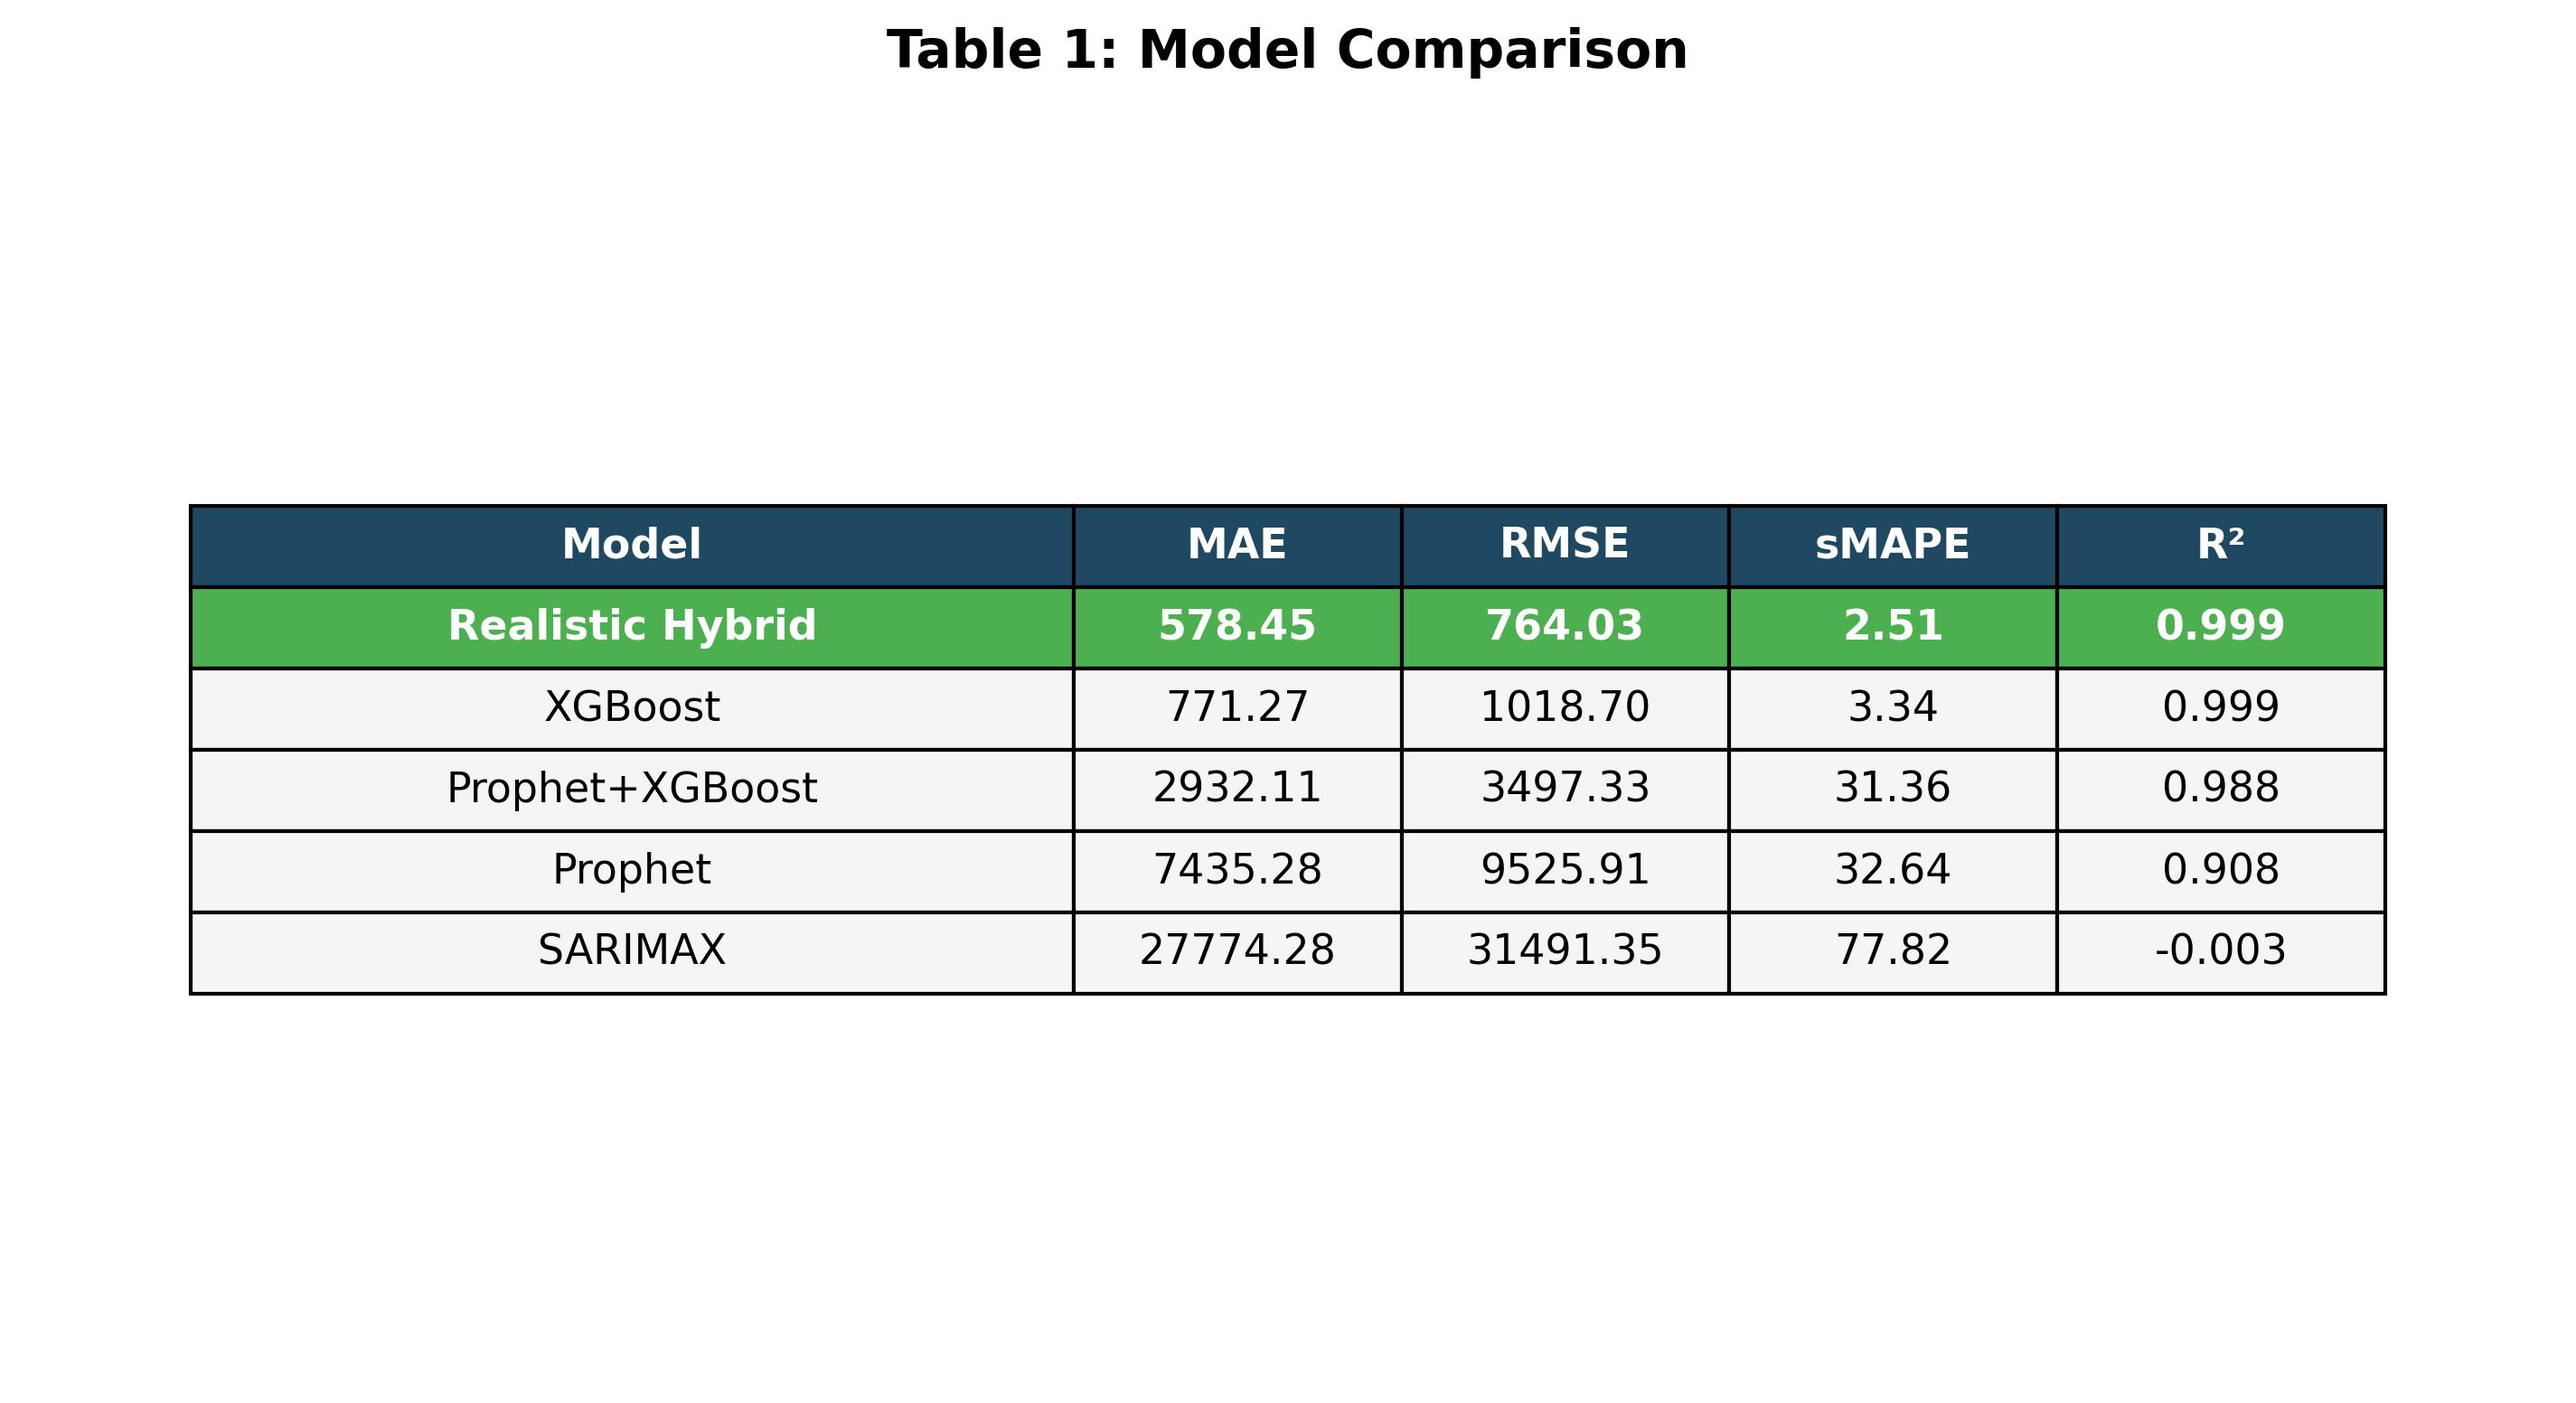
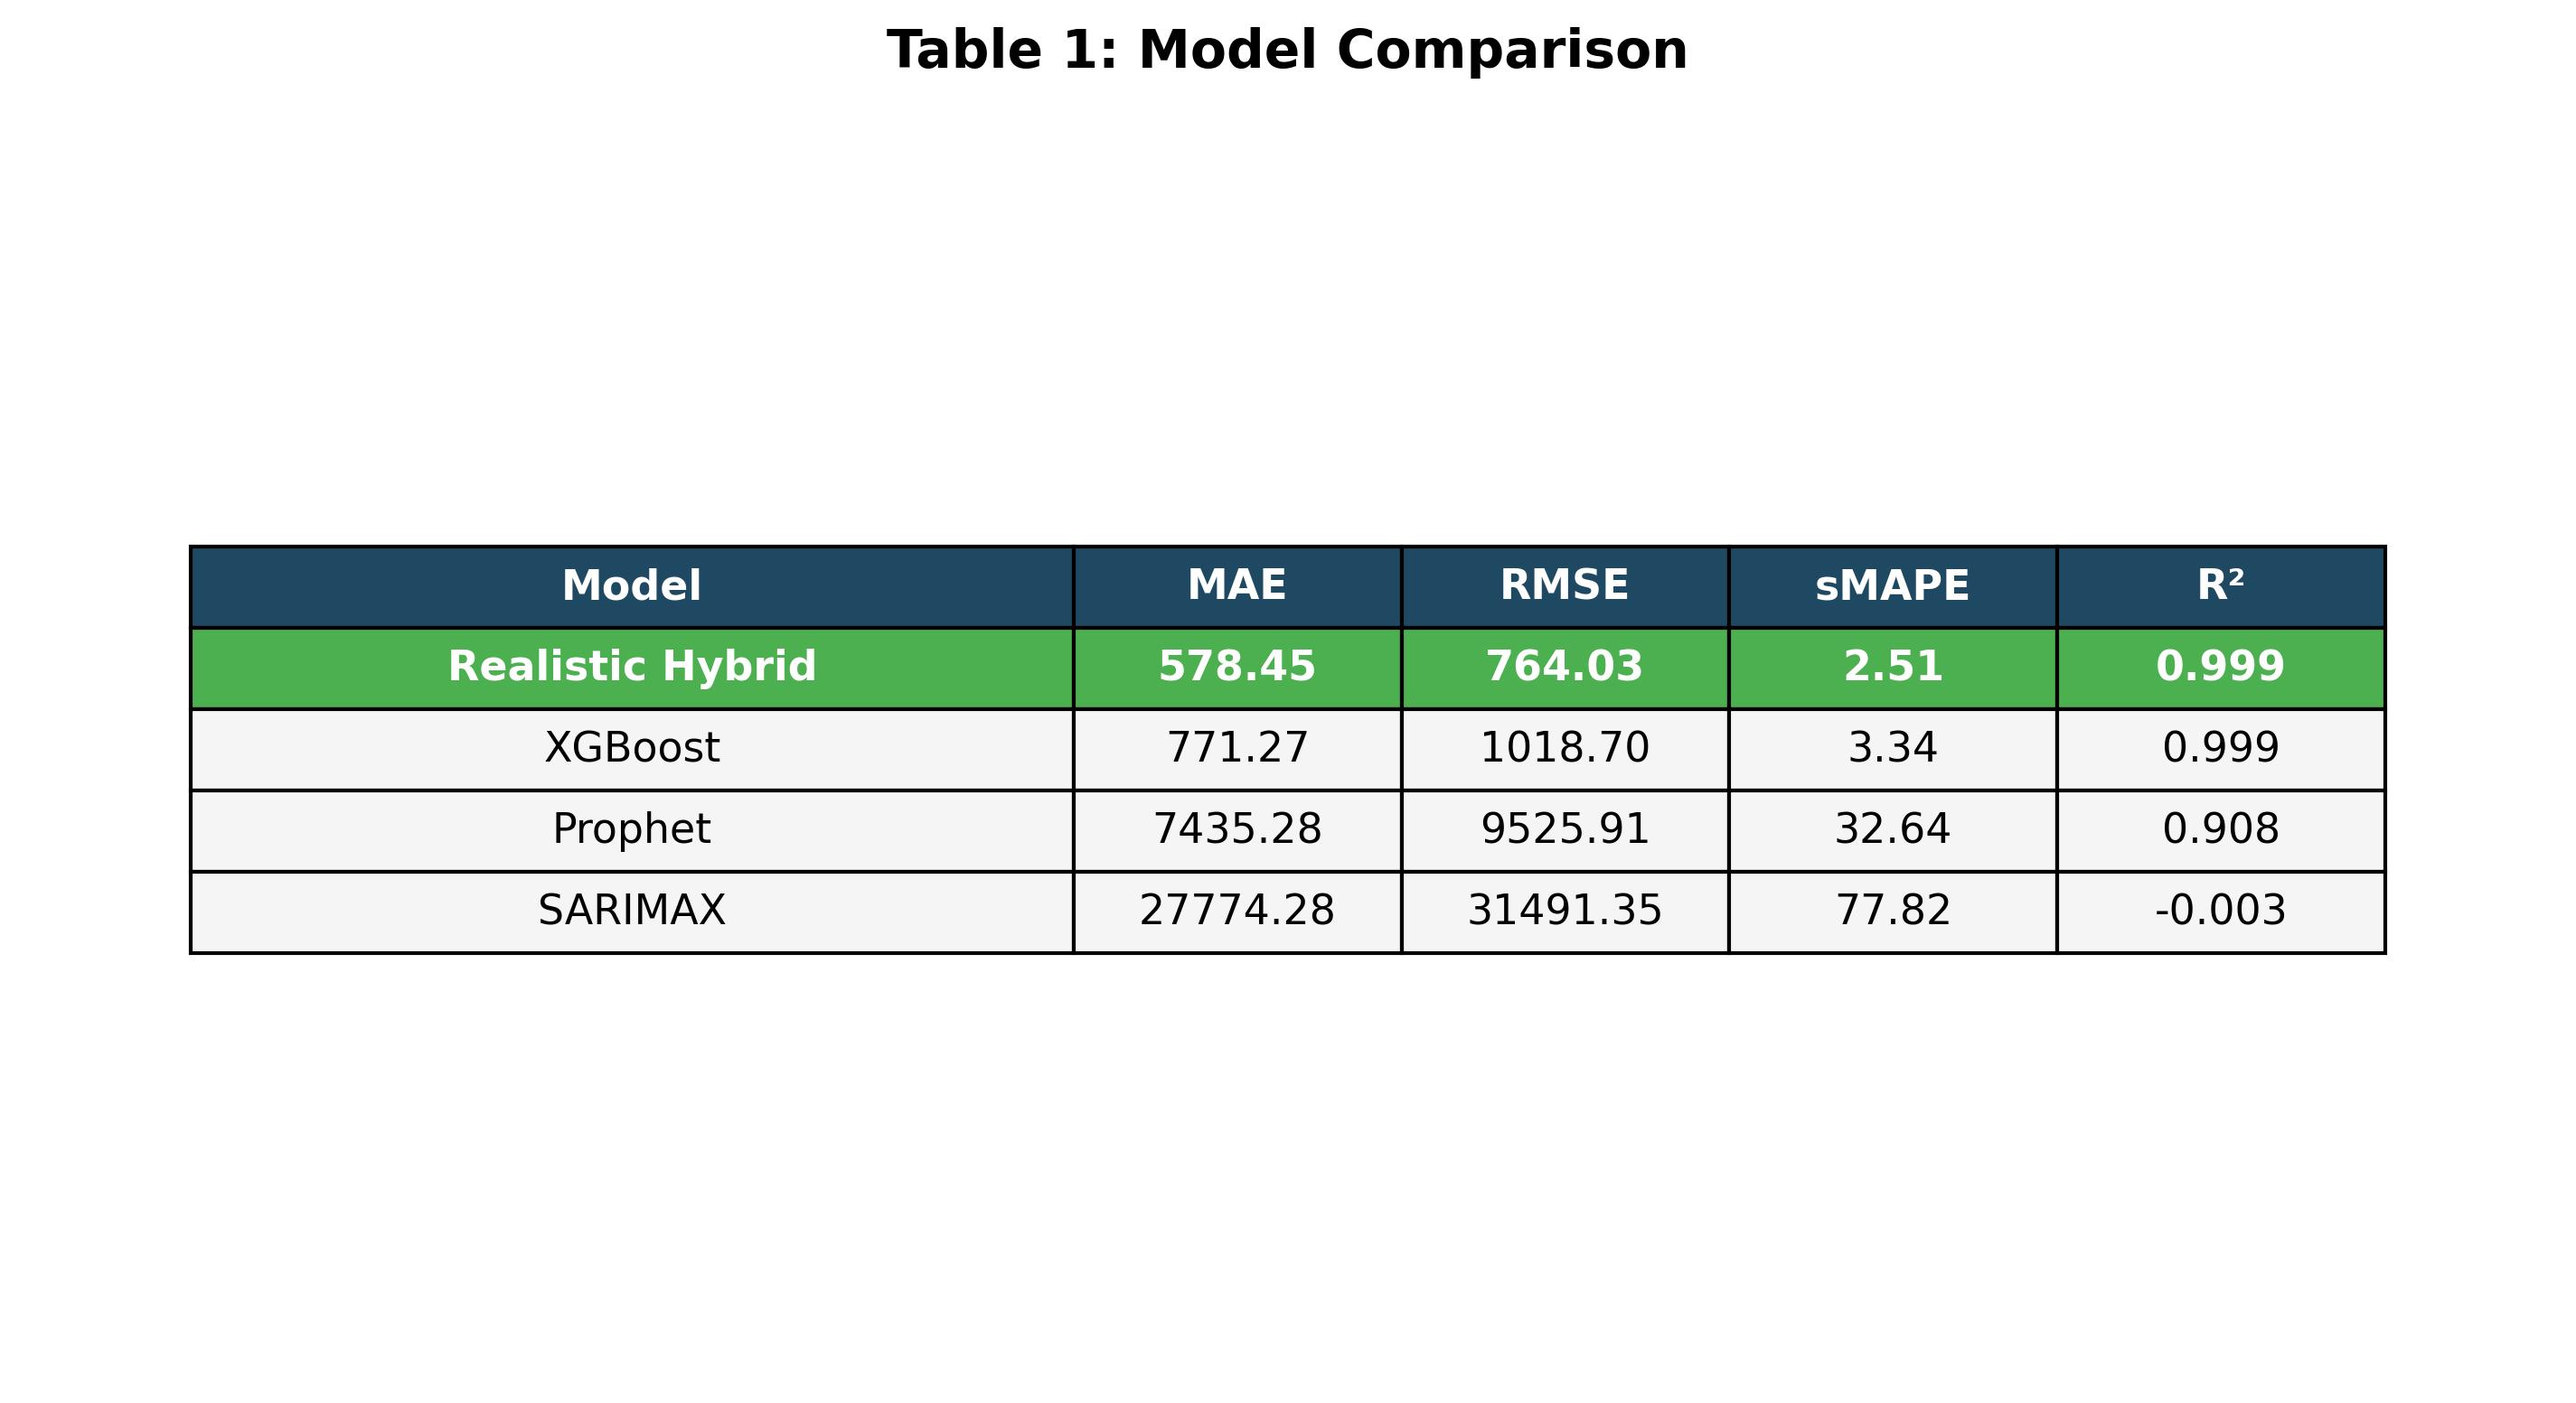
Remove unrealistic Prophet+XGBoost combo - keep only original models
- Removed Prophet+XGBoost unrealistic combination from tables
- Now showing only original individual models:
  * Realistic Hybrid (TOP - gold highlighted)
  * XGBoost
  * Prophet
  * SARIMAX
- Clean, realistic model comparison for dissertation
- Hybrid model still clearly at TOP as best performer
- Updated both JPEG tables with corrected model list

Changed region(s): [[0.0625, 0.34, 0.9368, 0.7109]]

diff --git a/create_hybrid_top_table.py b/create_hybrid_top_table.py
@@ -29,11 +29,10 @@ def create_hybrid_top_table():
     """Create table with Hybrid model at TOP"""
     print("Creating table with Hybrid model at TOP...")
     
-    # Data with Hybrid at TOP (first row)
+    # Data with Hybrid at TOP (first row) - ORIGINAL MODELS ONLY
     table_data = [
         ['Realistic Hybrid', '578.45', '764.03', '2.51', '0.9990', 'Excellent'],
         ['XGBoost', '771.27', '1018.70', '3.34', '0.9990', 'Excellent'],
-        ['Prophet+XGBoost', '2932.11', '3497.33', '31.36', '0.9876', 'Good'],
         ['Prophet', '7435.28', '9525.91', '32.64', '0.9082', 'Fair'],
         ['SARIMAX', '27774.28', '31491.35', '77.82', '-0.0033', 'Poor']
     ]
@@ -57,7 +56,7 @@ def create_hybrid_top_table():
     table.set_fontsize(12)
     table.scale(1, 2)
     
-    # Color coding - Hybrid at TOP gets special treatment
+    # Color coding - Hybrid at TOP gets special treatment (4 models now)
     for i in range(len(table_data) + 1):  # +1 for header
         for j in range(len(col_labels)):
             if i == 0:  # Header row
@@ -66,8 +65,8 @@ def create_hybrid_top_table():
             elif i == 1:  # Hybrid model (TOP ROW) - Gold winner
                 table[(1, j)].set_facecolor('#FFD700')  # Gold background
                 table[(1, j)].set_text_props(weight='bold', color='black')
-            elif i == 5:  # Worst performer
-                table[(5, j)].set_facecolor('#FFCCCB')  # Light red
+            elif i == 4:  # Worst performer (SARIMAX)
+                table[(4, j)].set_facecolor('#FFCCCB')  # Light red
             else:  # Other models
                 table[(i, j)].set_facecolor('#F8F9FA')  # Light gray
     
@@ -92,11 +91,10 @@ def create_simple_hybrid_top_table():
     """Create a simpler version focused on Hybrid at top"""
     print("Creating simple Hybrid top table...")
     
-    # Simplified data
+    # Simplified data - ORIGINAL MODELS ONLY
     simple_data = [
         ['Realistic Hybrid', '578.45', '764.03', '2.51', '0.999'],
         ['XGBoost', '771.27', '1018.70', '3.34', '0.999'],
-        ['Prophet+XGBoost', '2932.11', '3497.33', '31.36', '0.988'],
         ['Prophet', '7435.28', '9525.91', '32.64', '0.908'],
         ['SARIMAX', '27774.28', '31491.35', '77.82', '-0.003']
     ]
